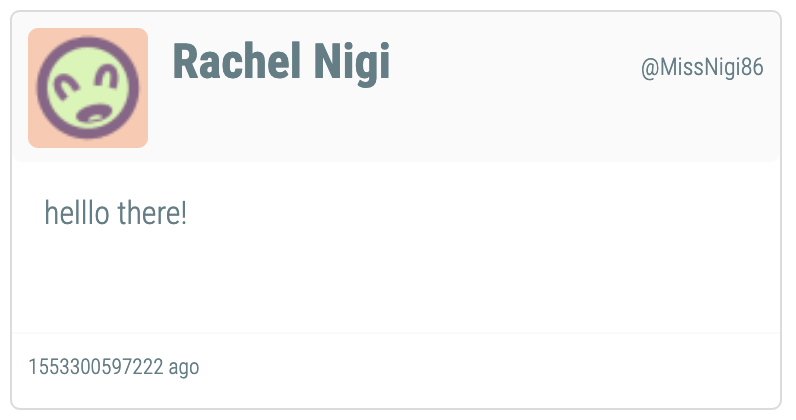
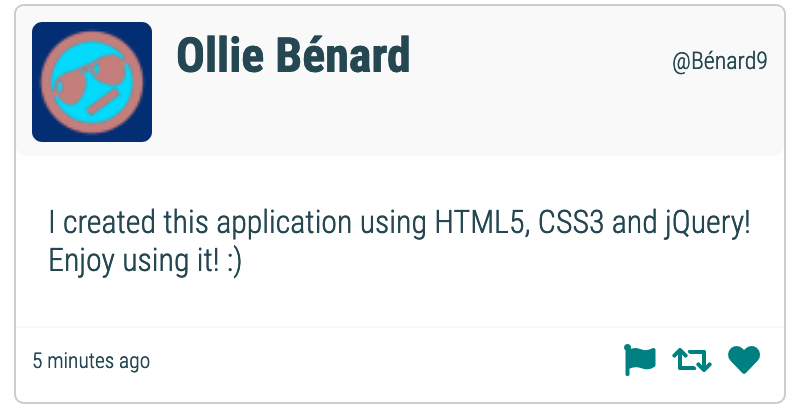
Fixed some more formatting issues, modified screenshots

diff --git a/public/scripts/app.js b/public/scripts/app.js
@@ -17,10 +17,36 @@ $(document).ready(function() {
 
 /*Function to encode text to prevent cross-site scripting*/
   function escape(str) {
-    var div = document.createElement("div");
+    let div = document.createElement("div");
     div.appendChild(document.createTextNode(str));
     return div.innerHTML;
   };
+// Taken from Stack Overflow
+  function timeSince(date) {
+    let seconds = Math.floor((new Date() - date) / 1000);
+    let interval = Math.floor(seconds / 31536000);
+
+    if (interval > 1) {
+      return interval + " years";
+    }
+    interval = Math.floor(seconds / 2592000);
+    if (interval > 1) {
+      return interval + " months";
+    }
+    interval = Math.floor(seconds / 86400);
+    if (interval > 1) {
+      return interval + " days";
+    }
+    interval = Math.floor(seconds / 3600);
+    if (interval > 1) {
+      return interval + " hours";
+    }
+    interval = Math.floor(seconds / 60);
+    if (interval > 1) {
+      return interval + " minutes";
+    }
+    return Math.floor(seconds) + " seconds";
+  }
 
 /*Function to create new Tweet*/
   function createTweetElement (tweet) {
@@ -34,7 +60,7 @@ $(document).ready(function() {
                       <p>${escape(tweet.content.text)}</p>
                     </main>
                     <footer>
-                      <h6>${tweet.created_at} ago</h6>
+                      <h6>${timeSince(tweet.created_at)} ago</h6>
                       <i class="fas fa-heart"></i>
                       <i class="fas fa-retweet"></i>
                       <i class="fas fa-flag"></i>
@@ -47,7 +73,7 @@ $(document).ready(function() {
     $("#posted-tweets").empty();
 
     tweets.forEach(function(tweet) {
-      var $tweet = createTweetElement(tweet);
+      let $tweet = createTweetElement(tweet);
       $("#posted-tweets").prepend($tweet);
     });
   };
@@ -92,7 +118,7 @@ $(document).ready(function() {
   - slide up and hide new tweet section */
   $(".toggle-button").on("click", function(event) {
     $(".new-tweet").slideToggle("moderate");
-    $("textarea").focus()
+    $("textarea").focus();
   });
 
 });

diff --git a/public/styles/posted-tweets.css b/public/styles/posted-tweets.css
@@ -9,7 +9,7 @@
 }
 
 /*Posted User Tweet Hover State with Full Opacity*/
-#posted-tweets .user-tweet:hover  {
+#posted-tweets .user-tweet:hover {
   opacity: 1;
 }
 
@@ -43,19 +43,19 @@
 
 #posted-tweets .user-tweet main {
   height: 85px;
-  padding: 1em 1em;
+  padding: 1em;
   position: relative;
   display: table;
-  width: 350px;
+  width: 386px;
 }
 
 /*Text in Posted Tweet*/
 #posted-tweets .user-tweet main p {
   margin: 0em;
-  width: 350px;
+  width: 380px;
   text-align: left;
   vertical-align: middle;
-  display:block;
+  display: table-cell;
   word-wrap:break-word;
 }
 
@@ -84,7 +84,7 @@
 }
 
 /*Hover state for Footer Icons, which appear when hovering*/
-#posted-tweets .user-tweet:hover footer i{
+#posted-tweets .user-tweet:hover footer i {
   display: inline-block;
   float: right;
   color: teal;

diff --git a/public/scripts/composer-char-counter.js b/public/scripts/composer-char-counter.js
@@ -4,7 +4,7 @@ difference less than 0 (message over 140): Show character count and add negative
 $(document).ready(function() {
   $(".new-tweet textarea").keyup(function() {
     const max = 140;
-    const length = max - $(this).val().length;
+    let length = max - $(this).val().length;
 
     if (length >= 0) {
       $(".new-tweet .counter").text(length)

diff --git a/public/styles/new-tweet.css b/public/styles/new-tweet.css
@@ -64,10 +64,10 @@
 
 /*Surprise!*/
 #ring-girl {
-  height: 300px;
-  width: 400px;
+  height: 600px;
+  width: 800px;
   position: fixed;
-  top: 25px;
-  left:135px;
+  top: 82px;
+  left:360px;
   z-index: 10;
 }

diff --git a/public/styles/layout.css b/public/styles/layout.css
@@ -1,6 +1,3 @@
-/*
- * Do not modify these two selectors, please
- */
 html {
   box-sizing: border-box;
 }

diff --git a/README.md b/README.md
@@ -16,7 +16,6 @@ A simple single-page AJAX-based Twitter clone that uses jQuery, HTML5 and CSS3 a
 - Express
 - MongoDB
 - MD5
-- Moments
 
 ## Getting Started
 
